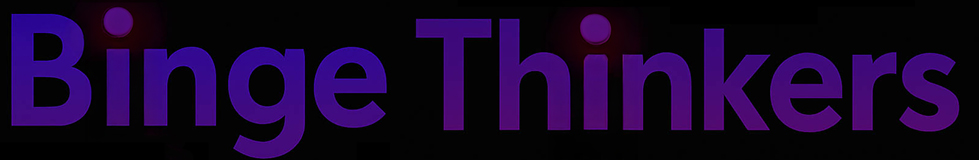
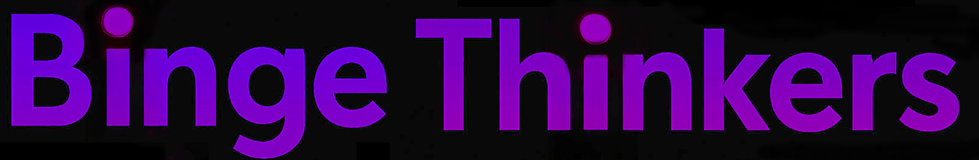
Add SEO: meta tags, robots.txt, sitemap, JSON-LD, privacy policy, 404 page

diff --git a/pages/index.vue b/pages/index.vue
@@ -40,3 +40,33 @@
     </section>
   </div>
 </template>
+
+<script setup lang="ts">
+useSeoMeta({
+  title: 'Binge Thinkers — Hosted Trivia Nights',
+  description: 'Book a live trivia night for your bar, pub, or private event. Professional hosts bring the questions and energy — you bring the crowd.',
+  ogTitle: 'Binge Thinkers — Hosted Trivia Nights',
+  ogDescription: 'Book a live trivia night for your bar, pub, or private event.',
+  ogImage: 'https://bingethinkers.com/splash.jpg',
+  ogType: 'website',
+  twitterCard: 'summary_large_image',
+})
+
+useHead({
+  script: [
+    {
+      type: 'application/ld+json',
+      children: JSON.stringify({
+        '@context': 'https://schema.org',
+        '@type': 'LocalBusiness',
+        name: 'Binge Thinkers',
+        description: 'Professional hosted trivia nights for bars, pubs, and private events.',
+        url: 'https://bingethinkers.com',
+        email: '[email redacted]',
+        image: 'https://bingethinkers.com/splash.jpg',
+        priceRange: '\$\$',
+      }),
+    },
+  ],
+})
+</script>

diff --git a/error.vue b/error.vue
@@ -1,0 +1,24 @@
+<template>
+  <div class="error-page">
+    <h1>404</h1>
+    <p>This page doesn't exist. Maybe it was a trivia question we haven't written yet.</p>
+    <NuxtLink to="/" class="btn btn-primary">Back to Home</NuxtLink>
+  </div>
+</template>
+
+<style scoped>
+.error-page {
+  text-align: center;
+  padding: 8rem 1.5rem;
+}
+.error-page h1 {
+  font-size: 5rem;
+  color: var(--color-accent);
+  margin-bottom: 1rem;
+}
+.error-page p {
+  color: var(--color-muted);
+  margin-bottom: 2rem;
+  font-size: 1.1rem;
+}
+</style>

diff --git a/pages/[...slug].vue b/pages/[...slug].vue
@@ -1,5 +1,21 @@
 <template>
   <div class="content-page">
-    <ContentDoc />
+    <ContentDoc v-slot="{ doc }">
+      <ContentRenderer :value="doc" />
+    </ContentDoc>
   </div>
 </template>
+
+<script setup lang="ts">
+const route = useRoute()
+const { data: doc } = await useAsyncData(route.path, () =>
+  queryContent(route.path).findOne()
+)
+
+const title = doc.value?.title || 'Binge Thinkers'
+
+useSeoMeta({
+  title: `${title} — Binge Thinkers`,
+  description: doc.value?.description || 'Professional hosted trivia nights for bars, pubs, and private events.',
+})
+</script>

diff --git a/components/SiteFooter.vue b/components/SiteFooter.vue
@@ -1,5 +1,8 @@
 <template>
   <footer>
-    <p>&copy; {{ new Date().getFullYear() }} Binge Thinkers. All rights reserved.</p>
+    <p>
+      &copy; {{ new Date().getFullYear() }} Binge Thinkers. All rights reserved.
+      <NuxtLink to="/privacy" style="margin-left:1rem">Privacy Policy</NuxtLink>
+    </p>
   </footer>
 </template>

diff --git a/pages/contact.vue b/pages/contact.vue
@@ -33,6 +33,11 @@
 </template>
 
 <script setup lang="ts">
+useSeoMeta({
+  title: 'Contact Binge Thinkers — Book a Trivia Night',
+  description: 'Get in touch to book a hosted trivia night for your bar, pub, or private event. We respond within 24 hours.',
+})
+
 const form = reactive({ name: '', email: '', phone: '', message: '' })
 const status = ref<'idle' | 'sending' | 'success' | 'error'>('idle')
 

diff --git a/nuxt.config.ts b/nuxt.config.ts
@@ -14,6 +14,7 @@ export default defineNuxtConfig({
         '/contact',
         '/faq',
         '/gallery',
+        '/privacy',
       ],
     },
   },

diff --git a/content/privacy.md b/content/privacy.md
@@ -1,0 +1,25 @@
+# Privacy Policy
+
+**Last updated:** [Date]
+
+## Information We Collect
+
+When you submit our contact form, we collect your name, email address, phone number (optional), and the message you provide. We use this solely to respond to your inquiry about booking a trivia night.
+
+## How We Use Your Information
+
+- To respond to your booking request
+- To follow up about your event
+- We do not sell, rent, or share your information with third parties
+
+## Data Storage
+
+Form submissions are sent via email to our team. We do not store submissions in a database. Emails are retained for the duration of the client relationship.
+
+## Your Rights
+
+You may request that we delete your email correspondence at any time by contacting us at [email redacted].
+
+## Contact
+
+For questions about this policy: **[email redacted]**